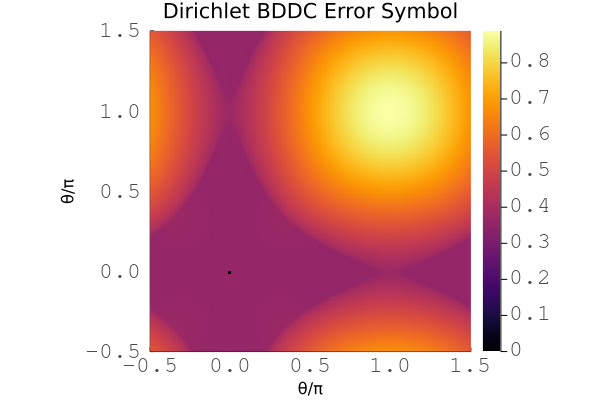
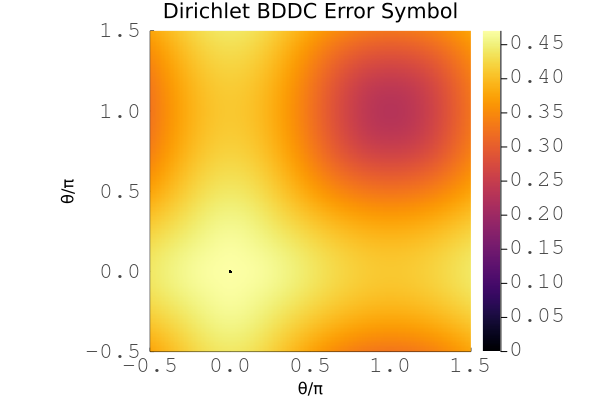
bddc - fix Dirichlet injection

diff --git a/docs/src/private/pc/bddc.md b/docs/src/private/pc/bddc.md
@@ -14,14 +14,11 @@ LFAToolkit.getsubassembledinverse
 LFAToolkit.getinteriorinverse
 LFAToolkit.getschur
 LFAToolkit.getmixedmultiplicity
+LFAToolkit.getJDT
 LFAToolkit.getprimalrowmodemap
 LFAToolkit.getprimalcolumnmodemap
 LFAToolkit.getsubassembledrowmodemap
 LFAToolkit.getsubassembledcolumnmodemap
-LFAToolkit.getinterfacerowmodemap
-LFAToolkit.getinterfacecolumnmodemap
-LFAToolkit.getinteriorrowmodemap
-LFAToolkit.getinteriorcolumnmodemap
 LFAToolkit.getmixedrowmodemap
 LFAToolkit.getmixedcolumnmodemap
 LFAToolkit.computesymbolsinjection(::BDDC, ::Array)

diff --git a/docs/src/release_notes.md b/docs/src/release_notes.md
@@ -20,6 +20,8 @@ Bugfixes:
 
 * Fix computation of eigenvalue estimates and error iteration for Chebyshev smoother
 
+* Fix injection operator for Dirichlet BDDC
+
 Examples:
 
 * Added linear elasticity example, renumbered Neo-Hookean hyperelasticity example
